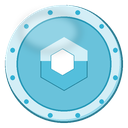
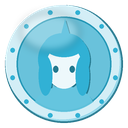
Lay the badges out like Mudae's, and strike a face into them
One line each, balance at the top, and the middle three kept back as
??? with their prerequisites shown - Paper I + Iron I + Gold I, or two
badges IV, which lets somebody who went deep on two things in rather
than shutting them out for skipping a third. $buybadge refuses a locked
badge and says what it wants.

The icons carry the bot's portrait now rather than a stone, which is
what made them a second set of shard crystals. Two tones, because a
single-colour silhouette at emoji size reads as a helmet: darker hair
over a lighter face, a fringe and side locks between them, and the whole
thing struck a pixel down and right so it sits in the metal.

Also "+1 rolls" now says "+1 roll".

Changed region(s): [[0.2812, 0.1562, 0.7188, 0.75], [0.25, 0.7812, 0.75, 0.875]]

diff --git a/tools/make_badges.py b/tools/make_badges.py
@@ -8,9 +8,9 @@ limit is 256KB per emoji and these come out far under it.
 
 A medal, not a crystal: the shards are already faceted stones, and two sets of
 loose gems in one bot would be indistinguishable at emoji size. So each badge
-is a struck disc - a rim, a dished face, a stone set in the middle - and what
-separates them is the material. Paper is a pale sheet with a bevel, iron is
-cold grey, gold is warm, and the four gems carry their own colour.
+is a struck disc - a rim, a dished face, and the bot's own portrait pressed
+into it - and what separates them is the material. Paper is pale, iron is cold
+grey, gold is warm, and the gems carry their own colour.
 
 Everything is drawn at 4x and scaled down, because Pillow's polygon fill has
 no antialiasing.
@@ -66,45 +66,71 @@ def ring(draw, centre, radius, fill, outline=None, width=0):
     draw.ellipse(box, fill=fill, outline=outline, width=width)
 
 
-def hexagon(centre, radius, offset=(0, 0)):
-    x, y = centre[0] + offset[0], centre[1] + offset[1]
-    return [(x + radius * math.cos(math.radians(d)),
-             y + radius * math.sin(math.radians(d)))
-            for d in range(-90, 270, 60)]
+def face(image, centre, radius, colour):
+    """The bot's portrait struck into the face of the medal.
 
+    Two tones, not one: a single-colour silhouette at this size reads as a
+    helmet, because the hair swallows the head. So the hair is darker than
+    the metal, the face lighter, and a fringe and side locks cut back across
+    the face to put a shape between them.
 
-def facets(image, centre, radius, colour):
-    """A cut stone: a lit upper half, a darker lower half, and a flat table.
-
-    Drawn on its own layer and lit by pasting a brighter copy through a
-    half-height mask, rather than by guessing which corners of the polygon
-    belong to the top - which is what produced a wedge across the stone.
+    The whole portrait is drawn once in shadow a pixel down and right before
+    the tones go on top, which is what gives it the struck look, and it stays
+    slightly transparent so it sits in the metal rather than on it.
     """
+    hair = shade(colour, -0.24, 0.02)
+    skin = shade(colour, 0.30, -0.18)
+    cloth = shade(colour, -0.10)
+    dark = shade(colour, -0.42)
+    x, y = centre
+
+    def portrait(draw, shift, mono=None):
+        dx, dy = shift
+
+        def ellipse(left, top, right, bottom, fill):
+            draw.ellipse([x + radius * left + dx, y + radius * top + dy,
+                          x + radius * right + dx, y + radius * bottom + dy],
+                         fill=mono or fill)
+
+        ellipse(-1.00, 0.72, 1.00, 2.24, mono or cloth)        # shoulders
+        ellipse(-0.84, -1.00, 0.84, 0.70, mono or hair)        # hair, behind
+        ellipse(-0.58, -0.62, 0.58, 0.80, mono or skin)        # face
+        ellipse(-0.64, -1.00, 0.64, -0.22, mono or hair)       # fringe
+        for side in (-1, 1):                                    # side locks
+            ellipse(side * 0.60 - 0.22, -0.26, side * 0.60 + 0.22, 1.02,
+                    mono or hair)
+        # The ahoge: the one line that is not a circle, so the portrait does
+        # not read as a thumbprint.
+        draw.polygon([(x - radius * 0.12 + dx, y - radius * 0.86 + dy),
+                      (x + radius * 0.04 + dx, y - radius * 1.44 + dy),
+                      (x + radius * 0.22 + dx, y - radius * 0.82 + dy)],
+                     fill=mono or hair)
+
     size = image.size[0]
-    stone = Image.new("RGBA", image.size, (0, 0, 0, 0))
-    draw = ImageDraw.Draw(stone)
+    stamp = Image.new("RGBA", image.size, (0, 0, 0, 0))
 
-    body = hexagon(centre, radius)
-    draw.polygon(body, fill=shade(colour, -0.14),
-                 outline=shade(colour, -0.38), width=max(1, int(size * 0.006)))
+    shadow = Image.new("RGBA", image.size, (0, 0, 0, 0))
+    portrait(ImageDraw.Draw(shadow), (size * 0.008, size * 0.008), mono=dark)
+    stamp = Image.alpha_composite(stamp, shadow)
 
-    lit = Image.new("RGBA", image.size, (0, 0, 0, 0))
-    ImageDraw.Draw(lit).polygon(body, fill=shade(colour, 0.16, 0.04))
+    tones = Image.new("RGBA", image.size, (0, 0, 0, 0))
+    portrait(ImageDraw.Draw(tones), (0, 0))
+    stamp = Image.alpha_composite(stamp, tones)
+
+    marks = ImageDraw.Draw(stamp)
+    for side in (-1, 1):                                        # eyes
+        marks.ellipse([x + side * radius * 0.27 - radius * 0.085,
+                       y + radius * 0.06,
+                       x + side * radius * 0.27 + radius * 0.085,
+                       y + radius * 0.28], fill=dark)
+
     mask = Image.new("L", image.size, 0)
-    ImageDraw.Draw(mask).rectangle(
-        [0, 0, image.size[0], centre[1] - radius * 0.12], fill=255)
-    stone.paste(lit, (0, 0), Image.composite(
-        lit.split()[-1], Image.new("L", image.size, 0), mask))
-
-    # The table sits slightly towards the light, which is what makes the
-    # stone read as raised rather than printed on.
-    table = hexagon(centre, radius * 0.5,
-                    (LIGHT[0] * radius * 0.10, LIGHT[1] * radius * 0.10))
-    ImageDraw.Draw(stone).polygon(
-        table, fill=shade(colour, 0.30, -0.04),
-        outline=shade(colour, -0.30), width=max(1, int(size * 0.005)))
-
-    return Image.alpha_composite(image, stone)
+    ImageDraw.Draw(mask).ellipse(
+        [centre[0] - radius * 1.55, centre[1] - radius * 1.55,
+         centre[0] + radius * 1.55, centre[1] + radius * 1.55], fill=225)
+    stamp.putalpha(Image.composite(
+        stamp.split()[-1], Image.new("L", image.size, 0), mask))
+    return Image.alpha_composite(image, stamp)
 
 
 def draw_badge(colour: str) -> Image.Image:
@@ -136,7 +162,7 @@ def draw_badge(colour: str) -> Image.Image:
         draw.ellipse([nx - notch, ny - notch, nx + notch, ny + notch],
                      fill=shade(colour, -0.22))
 
-    image = facets(image, centre, stone, colour)
+    image = face(image, centre, stone * 1.15, colour)
 
     # One soft highlight across the upper left, for the struck-metal sheen.
     gloss = Image.new("RGBA", (size, size), (0, 0, 0, 0))

diff --git a/perks.py b/perks.py
@@ -26,9 +26,11 @@ ROMAN = ("I", "II", "III", "IV")
 class Badge:
     """One material: its levels, its price, and the perk it grants."""
 
-    __slots__ = ("key", "name", "fallback", "base", "perk", "amounts", "blurb")
+    __slots__ = ("key", "name", "fallback", "base", "perk", "amounts",
+                 "blurb", "unlock")
 
-    def __init__(self, key, name, fallback, base, perk, amounts, blurb):
+    def __init__(self, key, name, fallback, base, perk, amounts, blurb,
+                 unlock=0):
         self.key = key
         self.name = name
         self.fallback = fallback      # emoji used until the PNG is uploaded
@@ -36,6 +38,10 @@ class Badge:
         self.perk = perk
         self.amounts = amounts        # what each level grants, I to IV
         self.blurb = blurb
+        # 0 is on the shelf from the start. 1, 2 and 3 need the three
+        # starters at that level first, so the later materials are something
+        # to work towards rather than a wall of prices on day one.
+        self.unlock = unlock
 
     def amount(self, level: int) -> int:
         return self.amounts[max(1, min(level, LEVELS)) - 1]
@@ -53,27 +59,58 @@ class Badge:
         return sum(self.base * n for n in range(1, LEVELS + 1))
 
     def describe(self, level: int) -> str:
-        return f"+{self.amount(level)}{self.blurb}"
+        amount = self.amount(level)
+        # "+1 rolls" reads like a typo, so the blurbs carry a {s} the count
+        # fills in. Blurbs without one are unaffected.
+        return f"+{amount}{self.blurb.format(s='' if amount == 1 else 's')}"
 
 
 BADGES = [
     Badge("paper", "Paper", "\U0001f4c4", 800, "wish_slots",
-          (1, 2, 3, 5), " wishlist slots"),
+          (1, 2, 3, 5), " wishlist slot{s}"),
     Badge("iron", "Iron", "\u2699\ufe0f", 1200, "rolls",
-          (1, 2, 3, 4), " rolls per window"),
+          (1, 2, 3, 4), " roll{s} per window"),
     Badge("gold", "Gold", "\U0001f947", 1800, "grab_percent",
           (3, 6, 9, 12), "% from every karuda grab"),
     Badge("emerald", "Emerald", "\U0001f49a", 2600, "daily_percent",
-          (5, 10, 18, 25), "% on your daily drops"),
+          (5, 10, 18, 25), "% on your daily drops", unlock=1),
     Badge("opal", "Opal", "\U0001f52e", 3600, "claim_percent",
-          (5, 10, 15, 20), "% off the claim wait"),
+          (5, 10, 15, 20), "% off the claim wait", unlock=2),
     Badge("amethyst", "Amethyst", "\U0001f49c", 5000, "wish_chance",
-          (4, 8, 12, 18), "% chance a roll is someone you wished for"),
+          (4, 8, 12, 18), "% chance a roll is someone you wished for",
+          unlock=3),
     Badge("diamond", "Diamond", "\U0001f48e", 7000, "badge_discount",
           (5, 10, 15, 25), "% off every other badge"),
 ]
 
 BADGES_BY_KEY = {badge.key: badge for badge in BADGES}
+
+# The three anybody can buy from the start, which the locked ones are
+# measured against.
+STARTERS = [badge.key for badge in BADGES if badge.unlock == 0][:3]
+
+
+def unlocked(levels: dict, badge) -> bool:
+    """Is this badge on the shelf for a player at these levels?
+
+    Two ways in, as in Mudae: the three starters at the badge's own tier, or
+    any two badges already maxed - so a player who went deep on two things
+    is not shut out for having skipped a third.
+    """
+    if not badge.unlock:
+        return True
+    if all(levels.get(key, 0) >= badge.unlock for key in STARTERS):
+        return True
+    return sum(1 for level in levels.values() if level >= LEVELS) >= 2
+
+
+def requirement(badge) -> str:
+    """What it would take, written the way the badge list shows it."""
+    if not badge.unlock:
+        return ""
+    tier = ROMAN[badge.unlock - 1]
+    needed = " + ".join(f"{BADGES_BY_KEY[k].name} {tier}" for k in STARTERS)
+    return f"{needed} or 2 badges {ROMAN[-1]}"
 
 # Tower floors, climbed in order. Each is (cost, what it adds).
 # Costs rise faster than income does, so the top floors are a long project

diff --git a/cogs/progress.py b/cogs/progress.py
@@ -39,42 +39,44 @@ class Progress(commands.Cog):
         icon = self._icon()
         mine = member.id == ctx.author.id
 
-        lines, owned_levels, spent = [], 0, 0
+        lines = [f"You have **{balance:,}** {icon} !", "",
+                 "Melt your karuda into power badges:"]
+        owned_levels = 0
         for badge in perks.BADGES:
             level = levels.get(badge.key, 0)
             owned_levels += level
-            spent += sum(badge.price(n) for n in range(1, level + 1))
             mark = self._badge_icon(badge)
-            roman = perks.ROMAN[level - 1] if level else "—"
 
-            head = f"{mark} **{badge.name} {roman}**"
-            if level:
-                head += f" · {badge.describe(level)}"
-
-            if level >= perks.LEVELS:
-                lines.append(f"{head}\n　**maxed**")
+            if not perks.unlocked(levels, badge):
+                # Locked badges keep their name back, the way Mudae's do -
+                # the list should read as something to uncover.
+                lines.append(f"**???** · Prerequisites: {perks.requirement(badge)}")
                 continue
 
-            # The price is the buyer's, so Diamond's discount is visible on
-            # every other line rather than hidden until they try to buy.
+            head = f"{mark} **{badge.name} {level}**"
+            if level >= perks.LEVELS:
+                lines.append(f"{head} · **maxed** · {badge.describe(level)}")
+                continue
+
             price = perks.badge_price(db, gid, member.id, badge, level + 1)
             full = badge.price(level + 1)
-            cost = f"{icon} {price:,}"
+            cost = f"**{price:,}** {icon}"
             if price < full:
                 cost += f" ~~{full:,}~~"
-            step = f"{perks.ROMAN[level]} · {badge.describe(level + 1)}"
-            lines.append(f"{head}\n　next: {step} — {cost}")
+            lines.append(f"{head} · Next level: {cost}  {badge.describe(level + 1)}")
 
         top = perks.LEVELS * len(perks.BADGES)
+        lines += ["", f"**Karuda tower:** {ctx.prefix}tower",
+                  f"**Buy a level:** {ctx.prefix}buybadge <name>"
+                  if mine else f"**Badges:** {owned_levels}/{top} levels"]
+
         embed = discord.Embed(
-            title=f"Badges — {member.display_name}",
             description="\n".join(lines),
             colour=config.CARD_COLOUR,
         )
-        embed.set_footer(
-            text=f"{owned_levels}/{top} levels · {spent:,} spent · "
-                 f"{balance:,} karuda"
-                 + (f" · {ctx.prefix}buybadge <name>" if mine else "")
+        embed.set_author(
+            name=f"{member.display_name} — {owned_levels}/{top} badge levels",
+            icon_url=member.display_avatar.url if member.display_avatar else None,
         )
         await ctx.send(embed=embed)
 
@@ -95,8 +97,15 @@ class Progress(commands.Cog):
             await ctx.send(f"No badge called `{name}`. There is: {names}.")
             return
 
-        level = db.badge_level(gid, ctx.author.id, badge.key)
+        levels = db.badge_levels(gid, ctx.author.id)
+        level = levels.get(badge.key, 0)
         mark = self._badge_icon(badge)
+        if not perks.unlocked(levels, badge):
+            await ctx.send(
+                f"**{badge.name}** is still locked. You need"
+                f" {perks.requirement(badge)}."
+            )
+            return
         if level >= perks.LEVELS:
             await ctx.send(
                 f"{mark} **{badge.name} {perks.ROMAN[-1]}** is as high as"

diff --git a/smoke_test.py b/smoke_test.py
@@ -1900,6 +1900,28 @@ async def main():
           all(b.price(perksmod.LEVELS + 1) is None for b in perksmod.BADGES))
     check("every badge has an icon to fall back on",
           all(b.fallback for b in perksmod.BADGES))
+
+    # The middle three are locked until the starters are climbed, the way
+    # Mudae's are, so the list has something to uncover.
+    starters = {k: 0 for k in perksmod.STARTERS}
+    locked = [b for b in perksmod.BADGES if b.unlock]
+    check("three badges start locked", len(locked) == 3, str(len(locked)))
+    check("the starters are never locked",
+          all(perksmod.unlocked({}, perksmod.BADGES_BY_KEY[k])
+              for k in perksmod.STARTERS))
+    check("a new player cannot reach the locked ones",
+          not any(perksmod.unlocked(starters, b) for b in locked))
+    tier_one = {k: 1 for k in perksmod.STARTERS}
+    check("the starters at I open the first of them",
+          perksmod.unlocked(tier_one, locked[0])
+          and not perksmod.unlocked(tier_one, locked[1]))
+    check("two maxed badges open all of them",
+          all(perksmod.unlocked({"paper": perksmod.LEVELS,
+                                 "diamond": perksmod.LEVELS}, b)
+              for b in locked))
+    check("a locked badge says what it needs",
+          all(perksmod.requirement(b) for b in locked)
+          and not perksmod.requirement(perksmod.BADGES[0]))
     check("tower costs only go up",
           [c for c, _ in perksmod.TOWER_FLOORS]
           == sorted(c for c, _ in perksmod.TOWER_FLOORS))
